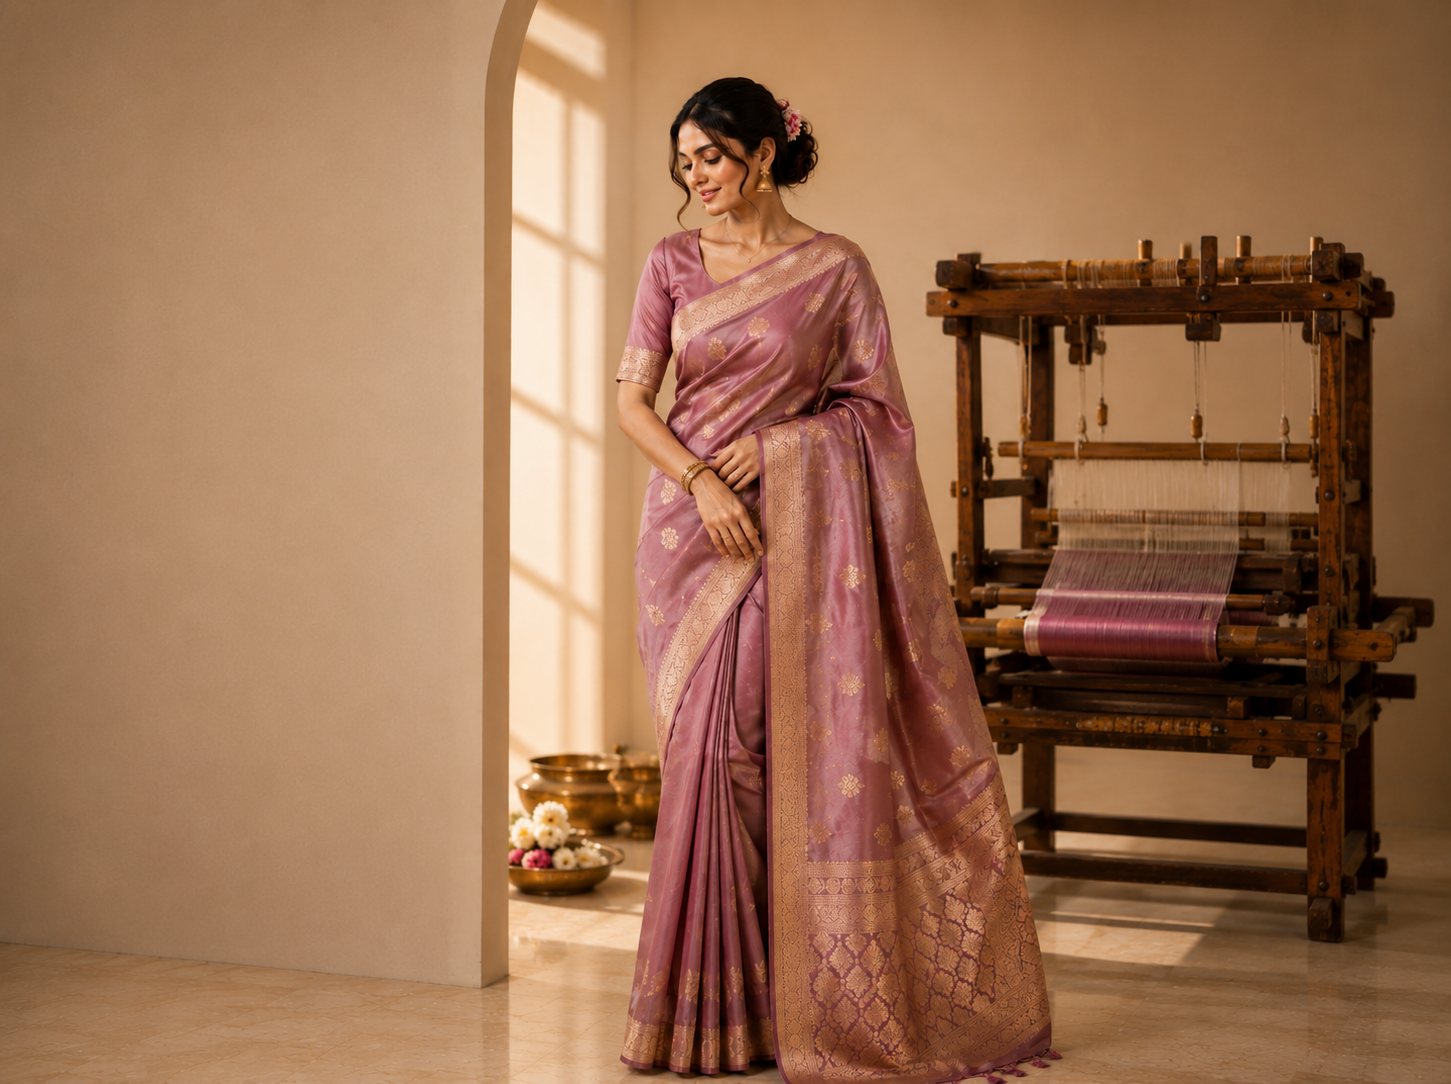
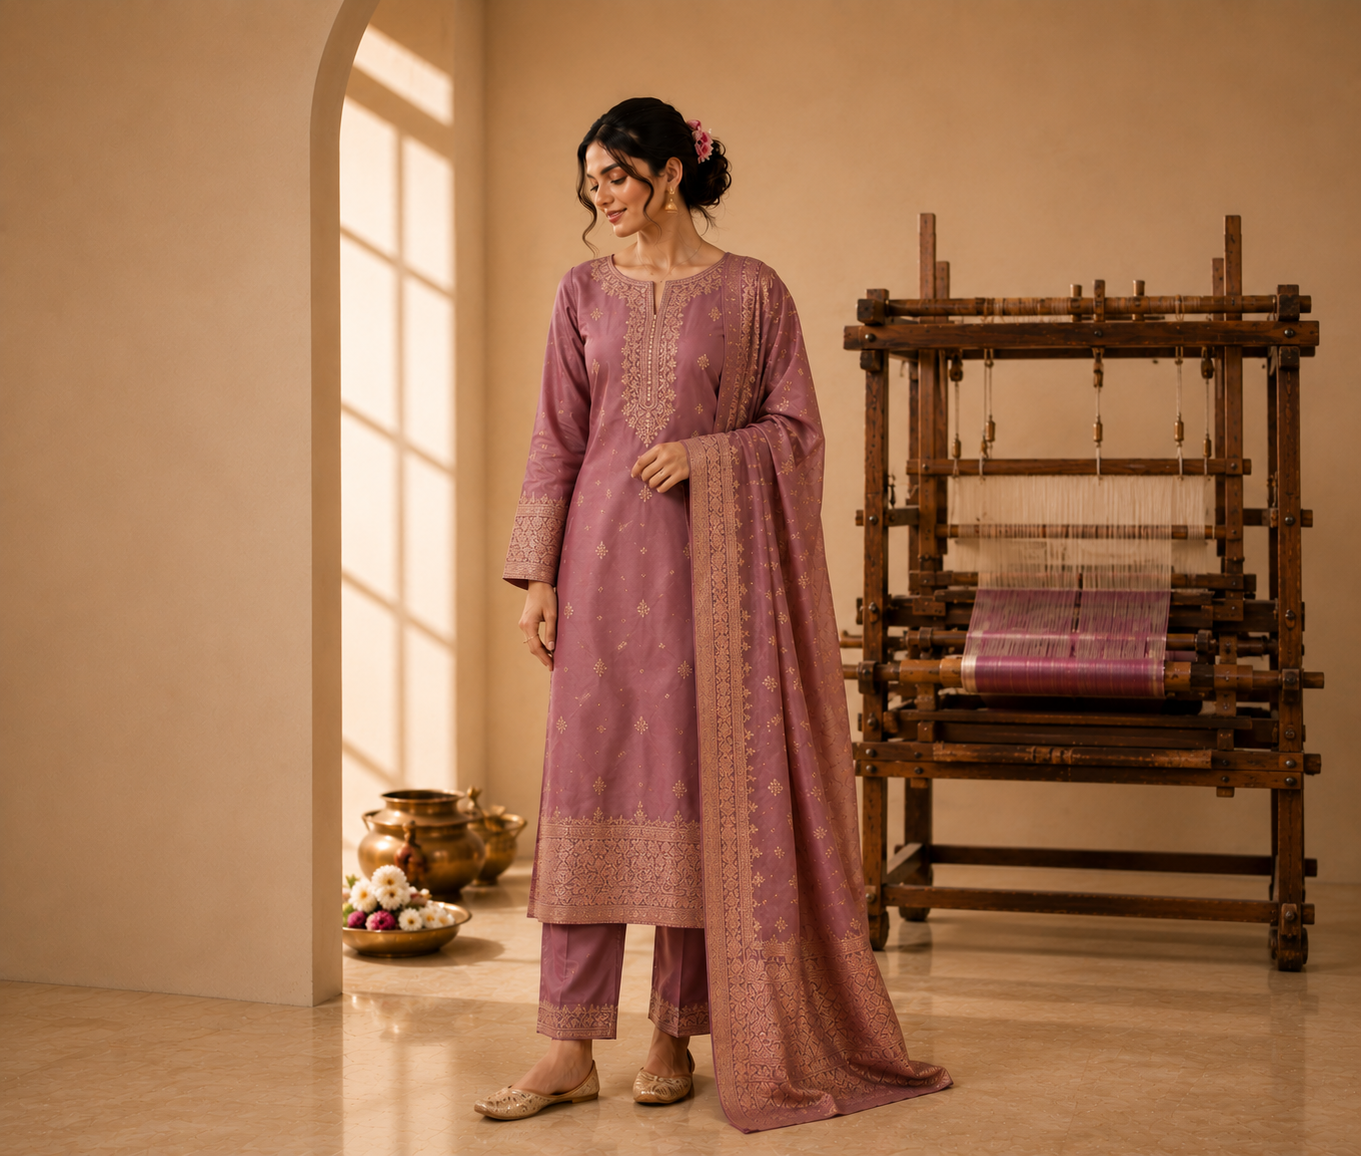
Latest commit

diff --git a/src/pages/admin/AdminCoupons.tsx b/src/pages/admin/AdminCoupons.tsx
@@ -1,6 +1,6 @@
 import React, { useState, useEffect } from 'react';
 import { useCouponsAdmin, useCouponMutations } from '../../hooks/useCoupons';
-import { Plus, Trash2, Edit2, Loader2, Ticket, Calendar, X, Percent, IndianRupee } from 'lucide-react';
+import { Plus, Trash2, Edit2, Loader2, Ticket, Calendar, X, Percent, Banknote } from 'lucide-react';
 import type { Coupon } from '../../lib/api';
 
 /* ─── Scroll-lock helpers ─────────────────────────────────────────────────── */
@@ -231,18 +231,18 @@ export const AdminCoupons: React.FC = () => {
                         {/* Discount */}
                         <td className="px-5 py-4">
                           <span className="text-sm font-bold text-[#8b1a2a]">
-                            {coupon.type === 'PERCENTAGE' ? `${coupon.value}%` : `₹${coupon.value}`}
+                            {coupon.type === 'PERCENTAGE' ? `${coupon.value}%` : `OMR ${coupon.value}`}
                           </span>
                           <span className="text-[10px] text-neutral-400 block mt-0.5">
                             {coupon.type === 'PERCENTAGE' ? 'off' : 'flat off'}
-                            {coupon.maximumDiscount ? ` · cap ₹${coupon.maximumDiscount}` : ''}
+                            {coupon.maximumDiscount ? ` · cap OMR ${coupon.maximumDiscount}` : ''}
                           </span>
                         </td>
 
                         {/* Min spend */}
                         <td className="px-5 py-4">
                           <span className="text-xs font-semibold text-neutral-700">
-                            ₹{Number(coupon.minimumOrder).toLocaleString('en-IN')}
+                            OMR {Number(coupon.minimumOrder).toLocaleString('en-OM')}
                           </span>
                         </td>
 
@@ -342,7 +342,7 @@ export const AdminCoupons: React.FC = () => {
                   <div className="w-12 h-12 rounded-xl bg-[#8b1a2a]/8 border border-[#8b1a2a]/15 flex items-center justify-center shrink-0">
                     {form.type === 'PERCENTAGE'
                       ? <Percent size={20} className="text-[#8b1a2a]" />
-                      : <IndianRupee size={20} className="text-[#8b1a2a]" />
+                      : <Banknote size={20} className="text-[#8b1a2a]" />
                     }
                   </div>
                   <div className="min-w-0">
@@ -352,9 +352,9 @@ export const AdminCoupons: React.FC = () => {
                     <div className="text-[11px] text-neutral-500 mt-0.5 leading-relaxed">
                       {form.type === 'PERCENTAGE'
                         ? `${form.value || '0'}% off`
-                        : `₹${form.value || '0'} flat off`}
-                      {Number(form.minimumOrder) > 0 && ` · min order ₹${form.minimumOrder}`}
-                      {form.type === 'PERCENTAGE' && form.maximumDiscount && ` · max cap ₹${form.maximumDiscount}`}
+                        : `OMR ${form.value || '0'} flat off`}
+                      {Number(form.minimumOrder) > 0 && ` · min order OMR ${form.minimumOrder}`}
+                      {form.type === 'PERCENTAGE' && form.maximumDiscount && ` · max cap OMR ${form.maximumDiscount}`}
                       {form.usageLimit && ` · limit ${form.usageLimit} uses`}
                     </div>
                   </div>
@@ -382,7 +382,7 @@ export const AdminCoupons: React.FC = () => {
                 <div>
                   <Label>Discount type *</Label>
                   <div className="grid grid-cols-2 gap-2">
-                    {([['PERCENTAGE', 'Percentage (%)', Percent], ['FIXED', 'Fixed amount (₹)', IndianRupee]] as const).map(([val, label, Icon]) => (
+                    {([['PERCENTAGE', 'Percentage (%)', Percent], ['FIXED', 'Fixed amount (OMR)', Banknote]] as const).map(([val, label, Icon]) => (
                       <button
                         key={val}
                         type="button"
@@ -415,7 +415,7 @@ export const AdminCoupons: React.FC = () => {
                     />
                   </div>
                   <div>
-                    <Label>Min order (₹)</Label>
+                    <Label>Min order (OMR)</Label>
                     <input
                       type="number"
                       min={0}
@@ -429,7 +429,7 @@ export const AdminCoupons: React.FC = () => {
                 {/* Max discount cap + Usage limit */}
                 <div className="grid grid-cols-2 gap-4">
                   <div>
-                    <Label dim={form.type === 'FIXED'}>Max discount cap (₹)</Label>
+                    <Label dim={form.type === 'FIXED'}>Max discount cap (OMR)</Label>
                     <input
                       type="number"
                       min={0}

diff --git a/src/pages/Home.tsx b/src/pages/Home.tsx
@@ -210,10 +210,10 @@ function CarouselProductCard({
         </h4>
         <div className="flex items-center gap-2">
           <span className="text-[14.5px] sm:text-base font-black text-[#8b1a2a]">
-            ﷼{priceOMR}
+            OMR {priceOMR}
           </span>
           <span className="text-[11px] sm:text-xs text-brand-text-muted line-through">
-            ﷼{mrpOMR}
+            OMR {mrpOMR}
           </span>
         </div>
         <button
@@ -872,7 +872,7 @@ export const Home: React.FC = () => {
   const { data: dbBanners } = useBanners();
 
   const defaultBanners = [
-    { imageUrl: "/images/50e18412-058c-4638-a475-0e417b0b54fe.png" },
+
     { imageUrl: "/images/bae39700-ac7c-49cc-b745-9050993c6514.png" },
     { imageUrl: "/images/9a9cedce-13c6-437e-918d-a30172c25429.png" },
      { imageUrl: "/images/f6578e7b-716c-4045-a016-458a3a5d9078.png" },
@@ -909,7 +909,7 @@ export const Home: React.FC = () => {
     {
       icon: <Truck className="w-6 h-6" strokeWidth={1.5} />,
       title: language === 'ar' ? "شحن مجاني" : "Free Shipping",
-      desc: language === 'ar' ? "على جميع الطلبات التي تزيد عن ﷼٥٠. توصيل سريع." : "On all orders above ﷼50. Worldwide delivery.",
+      desc: language === 'ar' ? "على جميع الطلبات التي تزيد عن OMR 50. توصيل سريع." : "On all orders above OMR 50. Worldwide delivery.",
     },
     {
       icon: <RefreshCcw className="w-6 h-6" strokeWidth={1.5} />,
@@ -968,7 +968,7 @@ export const Home: React.FC = () => {
     },
     {
       stars: 5,
-      text: language === 'ar' ? "سوبريور تريندز هو متجري المفضل دائماً. ملابسه تملك تصاميم ونقوش مذهلة وأصلية." : "Superior Trends is my go-to boutique. The sarees have stunning handloom work. Truly authentic.",
+      text: language === 'ar' ? "سوبريور تريندز هو متجري المفضل دائماً. ملابسه تملك تصاميم ونقوش مذهلة وأصلية." : "Superior Trends is my go-to boutique. The kurta pajamas have stunning handloom work. Truly authentic.",
       name: language === 'ar' ? "ميرا ر." : "Meera R.",
       verified: true,
     },
@@ -998,7 +998,7 @@ export const Home: React.FC = () => {
     },
     {
       stars: 5,
-      text: language === 'ar' ? "اشتريت الساري الحرير وأُذهلت بالجودة. المواد الخام فاخرة وتستحق كل ريال." : "Bought the silk saree and was blown away by the quality. Premium materials — worth every penny.",
+      text: language === 'ar' ? "اشتريت الكورتا الحرير وأُذهلت بالجودة. المواد الخام فاخرة وتستحق كل ريال." : "Bought the silk kurta pajama and was blown away by the quality. Premium materials — worth every penny.",
       name: language === 'ar' ? "شيريا ن." : "Shreya N.",
       verified: true,
     },
@@ -1451,12 +1451,12 @@ export const Home: React.FC = () => {
                     language === 'ar' ? (
                       <>
                         إرث النول اليدوي. <br />
-                        ساري مصنوع يدوياً.
+                        كورتا بيجاما مصنوعة يدوياً.
                       </>
                     ) : (
                       <>
                         Handloom Heritage. <br />
-                        Artisan Made Sarees.
+                        Artisan Kurta Pajamas.
                       </>
                     )
                   ) : (

diff --git a/src/pages/admin/AdminSettings.tsx b/src/pages/admin/AdminSettings.tsx
@@ -177,7 +177,7 @@ export const AdminSettings: React.FC = () => {
                 </label>
                 <div className="relative group/input">
                   <span className="absolute inset-y-0 left-0 pl-3.5 flex items-center text-xs font-semibold text-neutral-400 pointer-events-none select-none">
-                    ₹
+                    OMR
                   </span>
                   <input
                     type="number"
@@ -186,7 +186,7 @@ export const AdminSettings: React.FC = () => {
                     placeholder="1500"
                     value={threshold}
                     onChange={(e) => setThreshold(e.target.value)}
-                    className="w-full pl-8 pr-4 py-2.5 text-sm font-medium rounded-xl border border-neutral-200 bg-white
+                    className="w-full pl-12 pr-4 py-2.5 text-sm font-medium rounded-xl border border-neutral-200 bg-white
                       focus:outline-none focus:ring-2 focus:ring-blue-500/20 focus:border-blue-400
                       hover:border-neutral-300 transition-all placeholder:text-neutral-300"
                   />
@@ -203,7 +203,7 @@ export const AdminSettings: React.FC = () => {
                 </label>
                 <div className="relative group/input">
                   <span className="absolute inset-y-0 left-0 pl-3.5 flex items-center text-xs font-semibold text-neutral-400 pointer-events-none select-none">
-                    ₹
+                    OMR
                   </span>
                   <input
                     type="number"
@@ -212,7 +212,7 @@ export const AdminSettings: React.FC = () => {
                     placeholder="100"
                     value={shippingCost}
                     onChange={(e) => setShippingCost(e.target.value)}
-                    className="w-full pl-8 pr-4 py-2.5 text-sm font-medium rounded-xl border border-neutral-200 bg-white
+                    className="w-full pl-12 pr-4 py-2.5 text-sm font-medium rounded-xl border border-neutral-200 bg-white
                       focus:outline-none focus:ring-2 focus:ring-blue-500/20 focus:border-blue-400
                       hover:border-neutral-300 transition-all placeholder:text-neutral-300"
                   />
@@ -228,7 +228,7 @@ export const AdminSettings: React.FC = () => {
               <Truck size={11} className="text-blue-400 shrink-0" />
               <p className="text-[10px] text-blue-700 leading-relaxed">
                 <span className="font-semibold">Preview:</span>{' '}
-                Free shipping on orders ≥ ₹{threshold || '–'}. Orders below that pay ₹{shippingCost || '–'} flat.
+                Free shipping on orders ≥ OMR {threshold || '–'}. Orders below that pay OMR {shippingCost || '–'} flat.
               </p>
             </div>
           </div>

diff --git a/src/components/CartDrawer.tsx b/src/components/CartDrawer.tsx
@@ -144,7 +144,7 @@ export const CartDrawer: React.FC = () => {
                                 {item.product.name}
                               </h4>
                               <span className="text-sm text-[#8b1a2a] font-black shrink-0 tracking-tight">
-                                ﷼{Number(item.product.price).toLocaleString('en-OM')}
+                                OMR {Number(item.product.price).toLocaleString('en-OM')}
                               </span>
                             </div>
                             
@@ -264,13 +264,13 @@ export const CartDrawer: React.FC = () => {
                     <div className="flex justify-between text-brand-text-muted">
                       <span className="font-light">{language === 'ar' ? 'المجموع الفرعي' : 'Subtotal'}</span>
                       <span className="font-medium text-brand-charcoal">
-                        ﷼{Number(cartTotal).toLocaleString('en-OM')}
+                        OMR {Number(cartTotal).toLocaleString('en-OM')}
                       </span>
                     </div>
                     {discount > 0 && (
                       <div className="flex justify-between text-emerald-600">
                         <span className="font-light">{language === 'ar' ? 'الخصم' : 'Discount'} ({discount * 100}%)</span>
-                        <span className="font-medium">-﷼{Number(finalDiscount).toLocaleString('en-OM')}</span>
+                        <span className="font-medium">-OMR {Number(finalDiscount).toLocaleString('en-OM')}</span>
                       </div>
                     )}
                     <div className="flex justify-between text-brand-text-muted pb-3 border-b border-brand-border/15">
@@ -280,7 +280,7 @@ export const CartDrawer: React.FC = () => {
                     <div className="flex justify-between items-center pt-1">
                       <span className="font-display text-lg font-bold text-brand-charcoal uppercase">{language === 'ar' ? 'المجموع الكلي' : 'Total'}</span>
                       <span className="font-display text-2xl font-black text-[#8b1a2a] tracking-tight">
-                        ﷼{Number(grandTotal).toLocaleString('en-OM')}
+                        OMR {Number(grandTotal).toLocaleString('en-OM')}
                       </span>
                     </div>
                   </div>

diff --git a/src/locales/translations.ts b/src/locales/translations.ts
@@ -3,7 +3,7 @@ export type Language = 'en' | 'ar';
 export const translations = {
   en: {
     common: {
-      freeShipping: "Free shipping over ﷼",
+      freeShipping: "Free shipping over OMR ",
       shopNow: "Shop Now",
       viewAll: "View All",
       addToCart: "Add to Cart",
@@ -52,7 +52,7 @@ export const translations = {
       },
       trust: {
         freeShipping: "Worldwide Shipping",
-        freeShippingDesc: "Complimentary shipping on orders over ﷼50",
+        freeShippingDesc: "Complimentary shipping on orders over OMR 50",
         securePayment: "Secure Checkout",
         securePaymentDesc: "Fully encrypted secure payment gateways",
         premiumQuality: "Premium Quality",
@@ -135,7 +135,7 @@ export const translations = {
   },
   ar: {
     common: {
-      freeShipping: "شحن مجاني للطلبات أكثر من ﷼",
+      freeShipping: "شحن مجاني للطلبات أكثر من OMR ",
       shopNow: "تسوقي الآن",
       viewAll: "عرض الكل",
       addToCart: "أضف إلى السلة",
@@ -184,7 +184,7 @@ export const translations = {
       },
       trust: {
         freeShipping: "شحن عالمي",
-        freeShippingDesc: "شحن مجاني للطلبات التي تزيد عن ﷼٥٠",
+        freeShippingDesc: "شحن مجاني للطلبات التي تزيد عن OMR 50",
         securePayment: "دفع آمن",
         securePaymentDesc: "بوابات دفع آمنة ومشفرة بالكامل",
         premiumQuality: "جودة ممتازة",

diff --git a/src/pages/About.tsx b/src/pages/About.tsx
@@ -4,9 +4,13 @@ import { Sparkles, Heart, Leaf, Award, Globe, ShieldCheck, TrendingUp, ChevronRi
 import { PageHeader } from '../components/PageHeader';
 import { PageShell } from '../components/PageShell';
 import { useLanguage } from '../context/LanguageContext';
+import { useSettings } from '../hooks/useSettings';
 
 export const About: React.FC = () => {
   const { language, isRtl } = useLanguage();
+  const { data: settings } = useSettings();
+  
+  const freeShippingThreshold = Number(settings?.free_shipping_threshold ?? '50');
 
   const values = [
     {
@@ -35,7 +39,7 @@ export const About: React.FC = () => {
     language === 'ar' ? 'ملابس النساء والرجال والإكسسوارات في وجهة واحدة فاخرة' : 'Women, Men & Accessories under one premium destination',
     language === 'ar' ? 'دفع آمن، تتبع الطلبات ودعم مخصص' : 'Secure checkout, order tracking & dedicated support',
     language === 'ar' ? 'وصل حديثاً ومجموعات حصرية لكل موسم' : 'New arrivals and festive edits every season',
-    language === 'ar' ? 'شحن مجاني للطلبات التي تزيد عن ﷼٥٠ في جميع أنحاء سلطنة عمان' : 'Free shipping on orders over ﷼50 across Oman',
+    language === 'ar' ? `شحن مجاني للطلبات التي تزيد عن OMR ${freeShippingThreshold} في جميع أنحاء سلطنة عمان` : `Free shipping on orders over OMR ${freeShippingThreshold} across Oman`,
   ];
 
   return (
@@ -101,7 +105,7 @@ export const About: React.FC = () => {
 
             <div className="space-y-5 text-sm sm:text-[15px] text-brand-text-muted leading-relaxed font-medium">
               <p>
-                {language === 'ar' ? 'تأسست سوبريور تريندز برؤية تهدف إلى جعل الأزياء الراقية والنوعية في متناول الجميع، حيث نقدم تشكيلة مختارة بعناية — من الملابس التقليدية إلى العصرية والإكسسوارات التي تكمل مظهرك بالكامل.' : 'Founded with a vision to make quality fashion accessible, Superior Trends offers a carefully edited catalog — from kurtas and sarees to denim, dresses, and jewellery. Each season we refresh our collections while keeping the craftsmanship our customers trust.'}
+                {language === 'ar' ? 'تأسست سوبريور تريندز برؤية تهدف إلى جعل الأزياء الراقية والنوعية في متناول الجميع، حيث نقدم تشكيلة مختارة بعناية — من الملابس التقليدية إلى العصرية والإكسسوارات التي تكمل مظهرك بالكامل.' : 'Founded with a vision to make quality fashion accessible, Superior Trends offers a carefully edited catalog — from kurtas and kurta pajamas to denim, dresses, and jewellery. Each season we refresh our collections while keeping the craftsmanship our customers trust.'}
               </p>
               <p>
                 {language === 'ar' ? 'سواء كنت تتسوق للراحة اليومية أو للمناسبات الخاصة والاحتفالات، فإننا نركز على الأقمشة المريحة، والقصات المناسبة، والأسعار بالريال العماني التي تناسب ميزانيتك تماماً.' : 'Whether you shop for daily comfort or celebration wear, we focus on fabrics that feel good, fits that flatter, and prices in OMR that respect your budget.'}

diff --git a/src/pages/ProductDetail.tsx b/src/pages/ProductDetail.tsx
@@ -476,7 +476,7 @@ export const ProductDetail: React.FC = () => {
             {/* Trust strip — desktop */}
             <div className="hidden lg:grid grid-cols-3 gap-3 mt-1">
               {[
-                { icon: Truck, label: language === 'ar' ? 'شحن مجاني' : 'Free Shipping', sub: language === 'ar' ? 'للطلبات فوق ﷼٥٠' : 'Orders above ₹999' },
+                { icon: Truck, label: language === 'ar' ? 'شحن مجاني' : 'Free Shipping', sub: language === 'ar' ? 'للطلبات فوق OMR 50' : 'Orders above OMR 50' },
                 { icon: RefreshCw, label: language === 'ar' ? 'إرجاع خلال ٧ أيام' : '7-Day Returns', sub: language === 'ar' ? 'سياسة إرجاع سهلة' : 'Hassle-free policy' },
                 { icon: ShieldCheck, label: language === 'ar' ? 'دفع آمن ١٠٠٪' : 'Secure Payment', sub: language === 'ar' ? 'مشفر بالكامل' : '100% encrypted' },
               ].map(({ icon: Icon, label, sub }) => (
@@ -724,7 +724,7 @@ export const ProductDetail: React.FC = () => {
             {/* Trust strip — mobile */}
             <div className="grid grid-cols-3 gap-2 lg:hidden mt-1">
               {[
-                { icon: Truck, label: language === 'ar' ? 'شحن مجاني' : 'Free Shipping', sub: language === 'ar' ? '﷼٥٠+' : '₹999+' },
+                { icon: Truck, label: language === 'ar' ? 'شحن مجاني' : 'Free Shipping', sub: language === 'ar' ? 'OMR 50+' : 'OMR 50+' },
                 { icon: RefreshCw, label: language === 'ar' ? 'إرجاع ٧ أيام' : '7-Day Returns', sub: language === 'ar' ? 'سهل ومرن' : 'Easy policy' },
                 { icon: ShieldCheck, label: language === 'ar' ? 'دفع آمن' : 'Secure Pay', sub: language === 'ar' ? 'مشفر' : 'Encrypted' },
               ].map(({ icon: Icon, label, sub }) => (
@@ -837,8 +837,8 @@ export const ProductDetail: React.FC = () => {
                   key: 'shipping' as const, 
                   label: language === 'ar' ? 'الشحن والمرتجعات' : 'Shipping & Returns', 
                   content: language === 'ar' 
-                    ? 'شحن مجاني للطلبات التي تزيد عن ﷼٥٠. التوصيل القياسي في غضون ٣-٥ أيام عمل. التوصيل السريع متاح عند الدفع. إرجاع سهل خلال ٧ أيام للملابس غير الملبوسة مع إبقاء البطاقات الأصلية.' 
-                    : 'Free shipping on orders above ₹999. Standard delivery in 3–5 business days. Express delivery available at checkout. Easy 7-day returns for unworn items with tags.' 
+                    ? 'شحن مجاني للطلبات التي تزيد عن OMR 50. التوصيل القياسي في غضون ٣-٥ أيام عمل. التوصيل السريع متاح عند الدفع. إرجاع سهل خلال ٧ أيام للملابس غير الملبوسة مع إبقاء البطاقات الأصلية.' 
+                    : 'Free shipping on orders above OMR 50. Standard delivery in 3–5 business days. Express delivery available at checkout. Easy 7-day returns for unworn items with tags.' 
                 },
               ] as const
             ).map(({ key, label, content }) => (

diff --git a/src/components/Navbar.tsx b/src/components/Navbar.tsx
@@ -9,8 +9,8 @@ import { useShop } from '../context/ShopContext';
 import { motion, AnimatePresence } from 'framer-motion';
 import { useAuthStore } from '../store/useAuthStore';
 import { useCategories } from '../hooks/useProducts';
-import { FREE_SHIPPING_MIN_INR } from '../lib/formatCurrency';
 import { useLanguage } from '../context/LanguageContext';
+import { useSettings } from '../hooks/useSettings';
 import logo from '../assets/logo.png';
 
 // ─── tiny helpers ────────────────────────────────────────────────────────────
@@ -40,6 +40,9 @@ export const Navbar: React.FC = () => {
   const { user, logout } = useAuthStore();
   const { data: categories } = useCategories();
   const { language, setLanguage, t } = useLanguage();
+  const { data: settings } = useSettings();
+
+  const freeShippingThreshold = Number(settings?.free_shipping_threshold ?? '50');
 
   const rootCategories = React.useMemo(() => {
     if (!categories) return [];
@@ -131,7 +134,7 @@ export const Navbar: React.FC = () => {
         {/* Announcement bar */}
         <div className={`bg-gradient-to-r from-[#8b1a2a] via-[#a22033] to-[#8b1a2a] text-white py-1.5 px-3 flex flex-wrap items-center justify-center gap-x-2 gap-y-0.5 font-extrabold uppercase select-none border-b border-[#d4af37]/20 shadow-sm text-center ${language === 'ar' ? 'text-[11px] sm:text-[13px] tracking-normal' : 'text-[9px] sm:text-[11px] tracking-widest'}`}>
           <Truck size={11} className="shrink-0 opacity-85 text-[#d4af37]" />
-          <span>{t('common.freeShipping')}{FREE_SHIPPING_MIN_INR.toLocaleString('en-OM')}</span>
+          <span>{t('common.freeShipping')}{freeShippingThreshold.toLocaleString('en-OM')}</span>
           <span className="opacity-40">·</span>
           <Link
             to="/shop"

diff --git a/src/lib/formatCurrency.ts b/src/lib/formatCurrency.ts
@@ -1,8 +1,9 @@
 /** Format amount in Omani Rials (OMR) */
 export function formatINR(amount: number | string | null | undefined): string {
   const n = Number(amount);
-  if (Number.isNaN(n)) return '﷼0';
-  return `﷼${n.toLocaleString('en-OM', { maximumFractionDigits: 0 })}`;
+  if (Number.isNaN(n)) return 'OMR 0';
+  return `OMR ${n.toLocaleString('en-OM', { maximumFractionDigits: 0 })}`;
 }
 
-export const FREE_SHIPPING_MIN_INR = 999;
+export const FREE_SHIPPING_MIN_INR = 50;
+

diff --git a/src/pages/Checkout.tsx b/src/pages/Checkout.tsx
@@ -518,8 +518,8 @@ export const Checkout: React.FC = () => {
                     const meetsMin = cartTotal >= c.minimumOrder;
                     const text =
                       c.type === 'PERCENTAGE'
-                        ? `${c.code} · ${c.value}% OFF${Number(c.minimumOrder) > 0 ? ` (Min ₹${c.minimumOrder})` : ''}`
-                        : `${c.code} · ₹${c.value} OFF${Number(c.minimumOrder) > 0 ? ` (Min ₹${c.minimumOrder})` : ''}`;
+                        ? `${c.code} · ${c.value}% OFF${Number(c.minimumOrder) > 0 ? ` (Min OMR ${c.minimumOrder})` : ''}`
+                        : `${c.code} · OMR ${c.value} OFF${Number(c.minimumOrder) > 0 ? ` (Min OMR ${c.minimumOrder})` : ''}`;
                     return (
                       <option key={c.id} value={c.code} className={meetsMin ? '' : 'text-neutral-300'}>
                         {text} {!meetsMin ? '🔒' : '✅'}

diff --git a/src/pages/admin/AdminProducts.tsx b/src/pages/admin/AdminProducts.tsx
@@ -310,7 +310,7 @@ export const AdminProducts: React.FC = () => {
                 </div>
 
                 <div className="space-y-1">
-                  <label className="text-[10px] font-bold uppercase tracking-wider text-neutral-400">MRP (﷼)</label>
+                  <label className="text-[10px] font-bold uppercase tracking-wider text-neutral-400">MRP (OMR)</label>
                   <input
                     type="number"
                     required
@@ -321,7 +321,7 @@ export const AdminProducts: React.FC = () => {
                 </div>
 
                 <div className="space-y-1">
-                  <label className="text-[10px] font-bold uppercase tracking-wider text-neutral-400">Sale Price (﷼)</label>
+                  <label className="text-[10px] font-bold uppercase tracking-wider text-neutral-400">Sale Price (OMR)</label>
                   <input
                     type="number"
                     required

diff --git a/src/pages/admin/AdminSections.tsx b/src/pages/admin/AdminSections.tsx
@@ -370,7 +370,7 @@ export const AdminSections: React.FC = () => {
                         required
                         value={title}
                         onChange={e => setTitle(e.target.value)}
-                        placeholder={type === 'SPLIT' ? 'Bridal Lehenga & Designer Sarees' : 'e.g. Accessories'}
+                        placeholder={type === 'SPLIT' ? 'Bridal Lehenga & Designer Kurta Pajamas' : 'e.g. Accessories'}
                       />
                     </div>
                     <div>